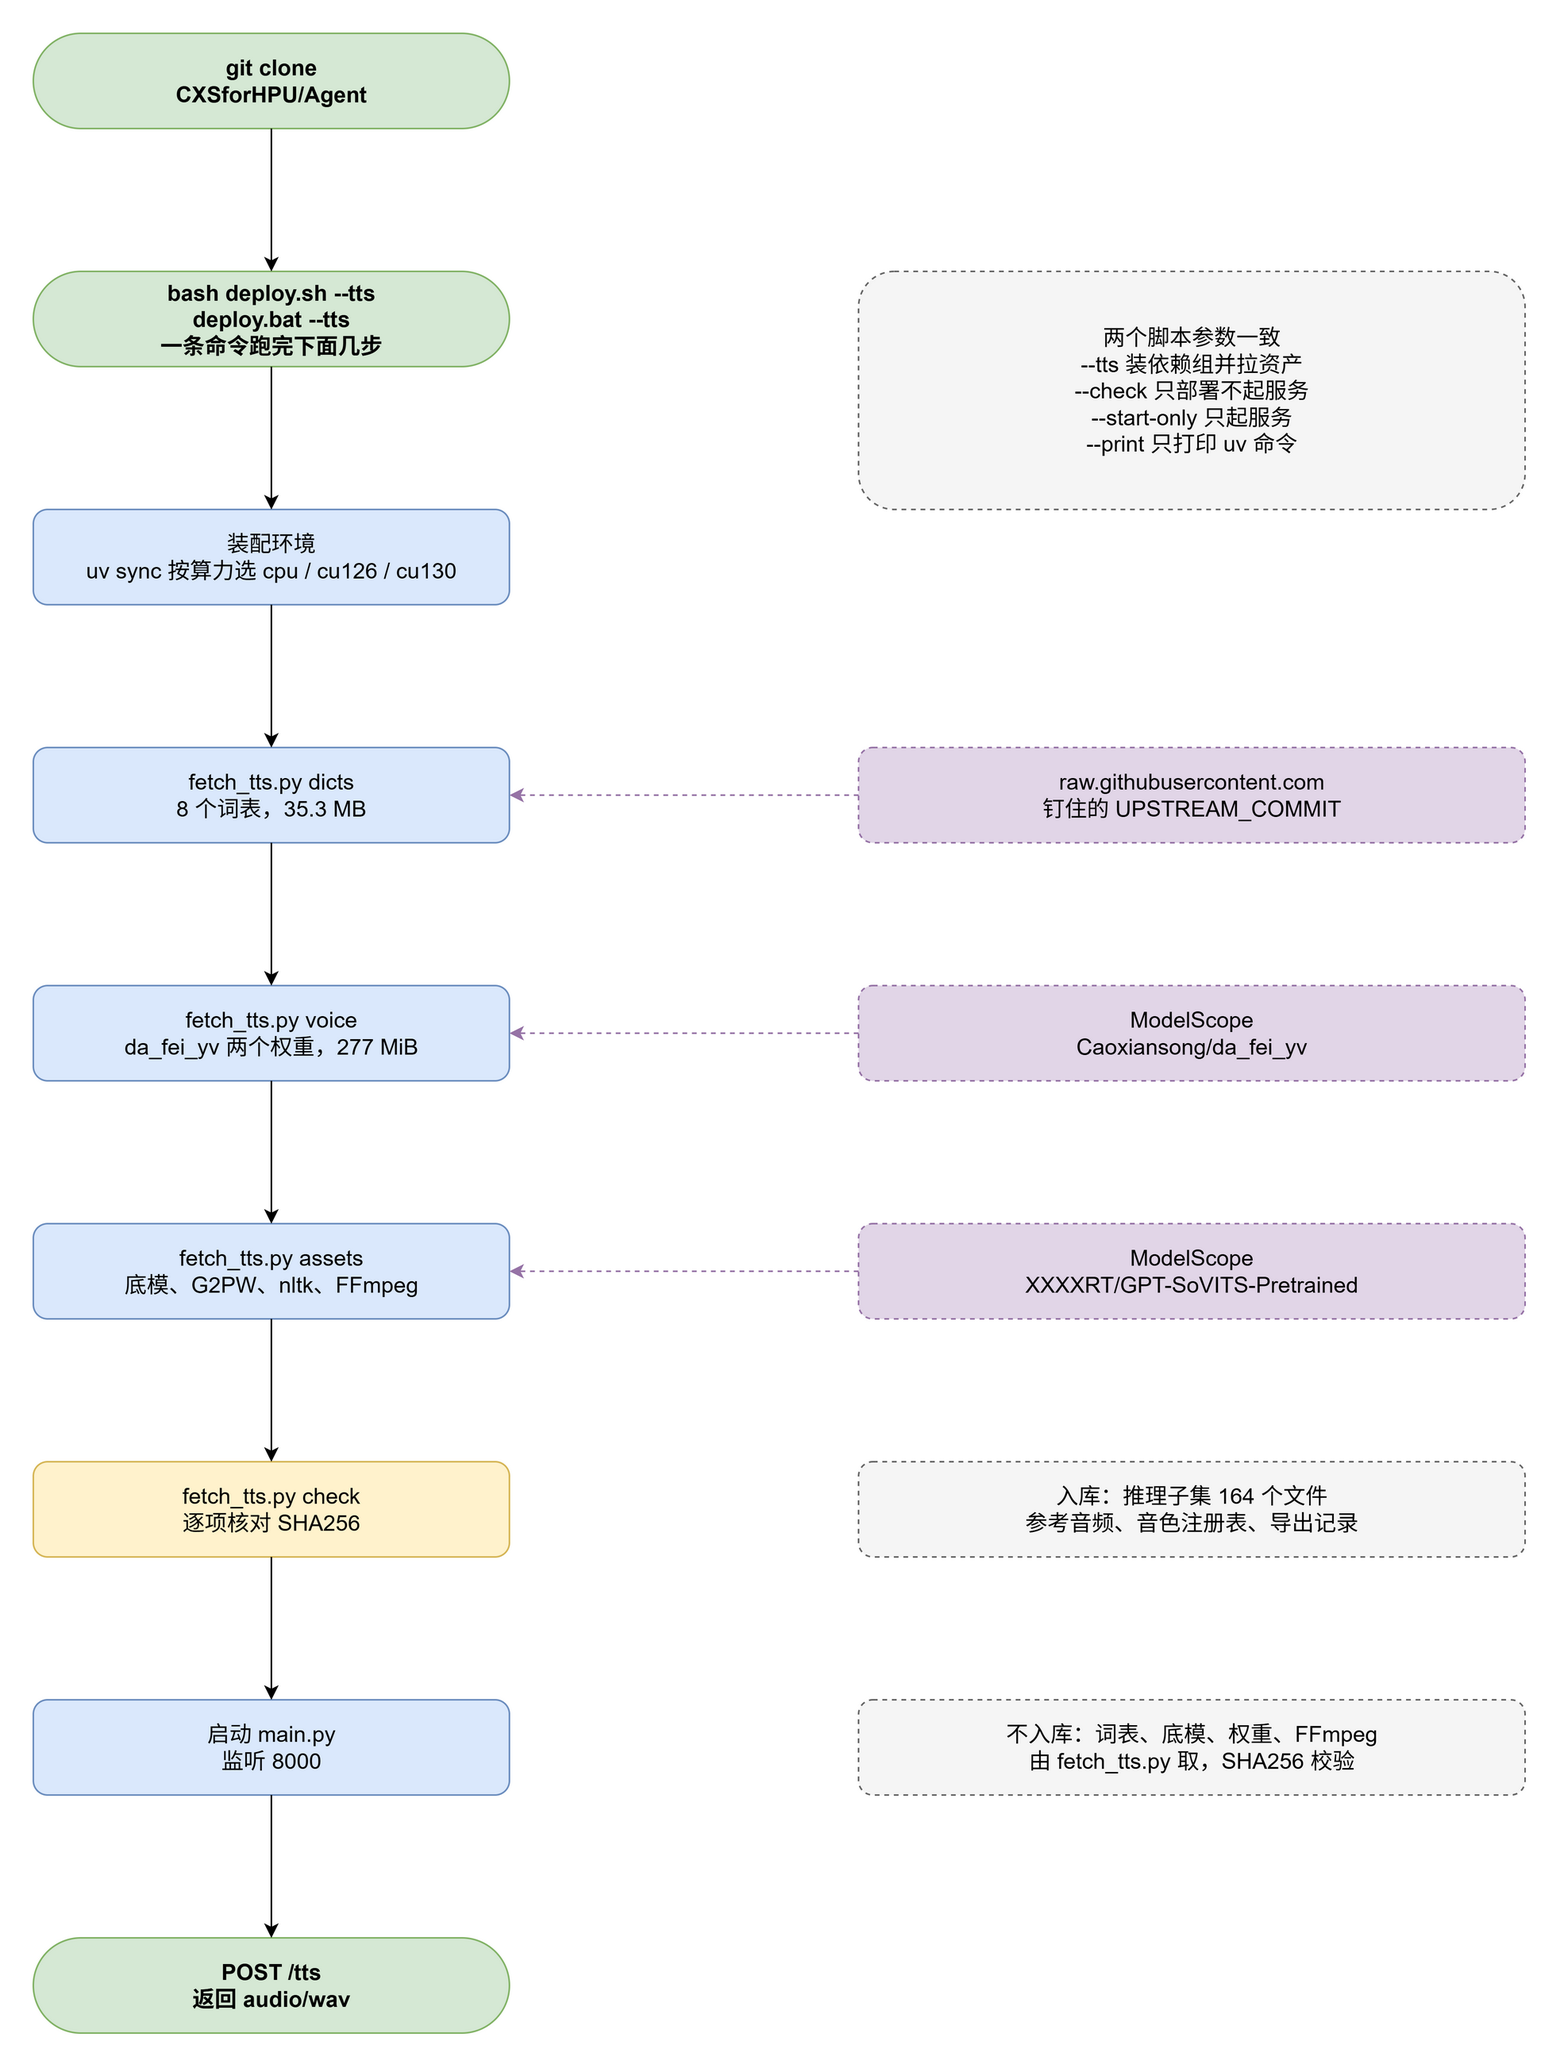
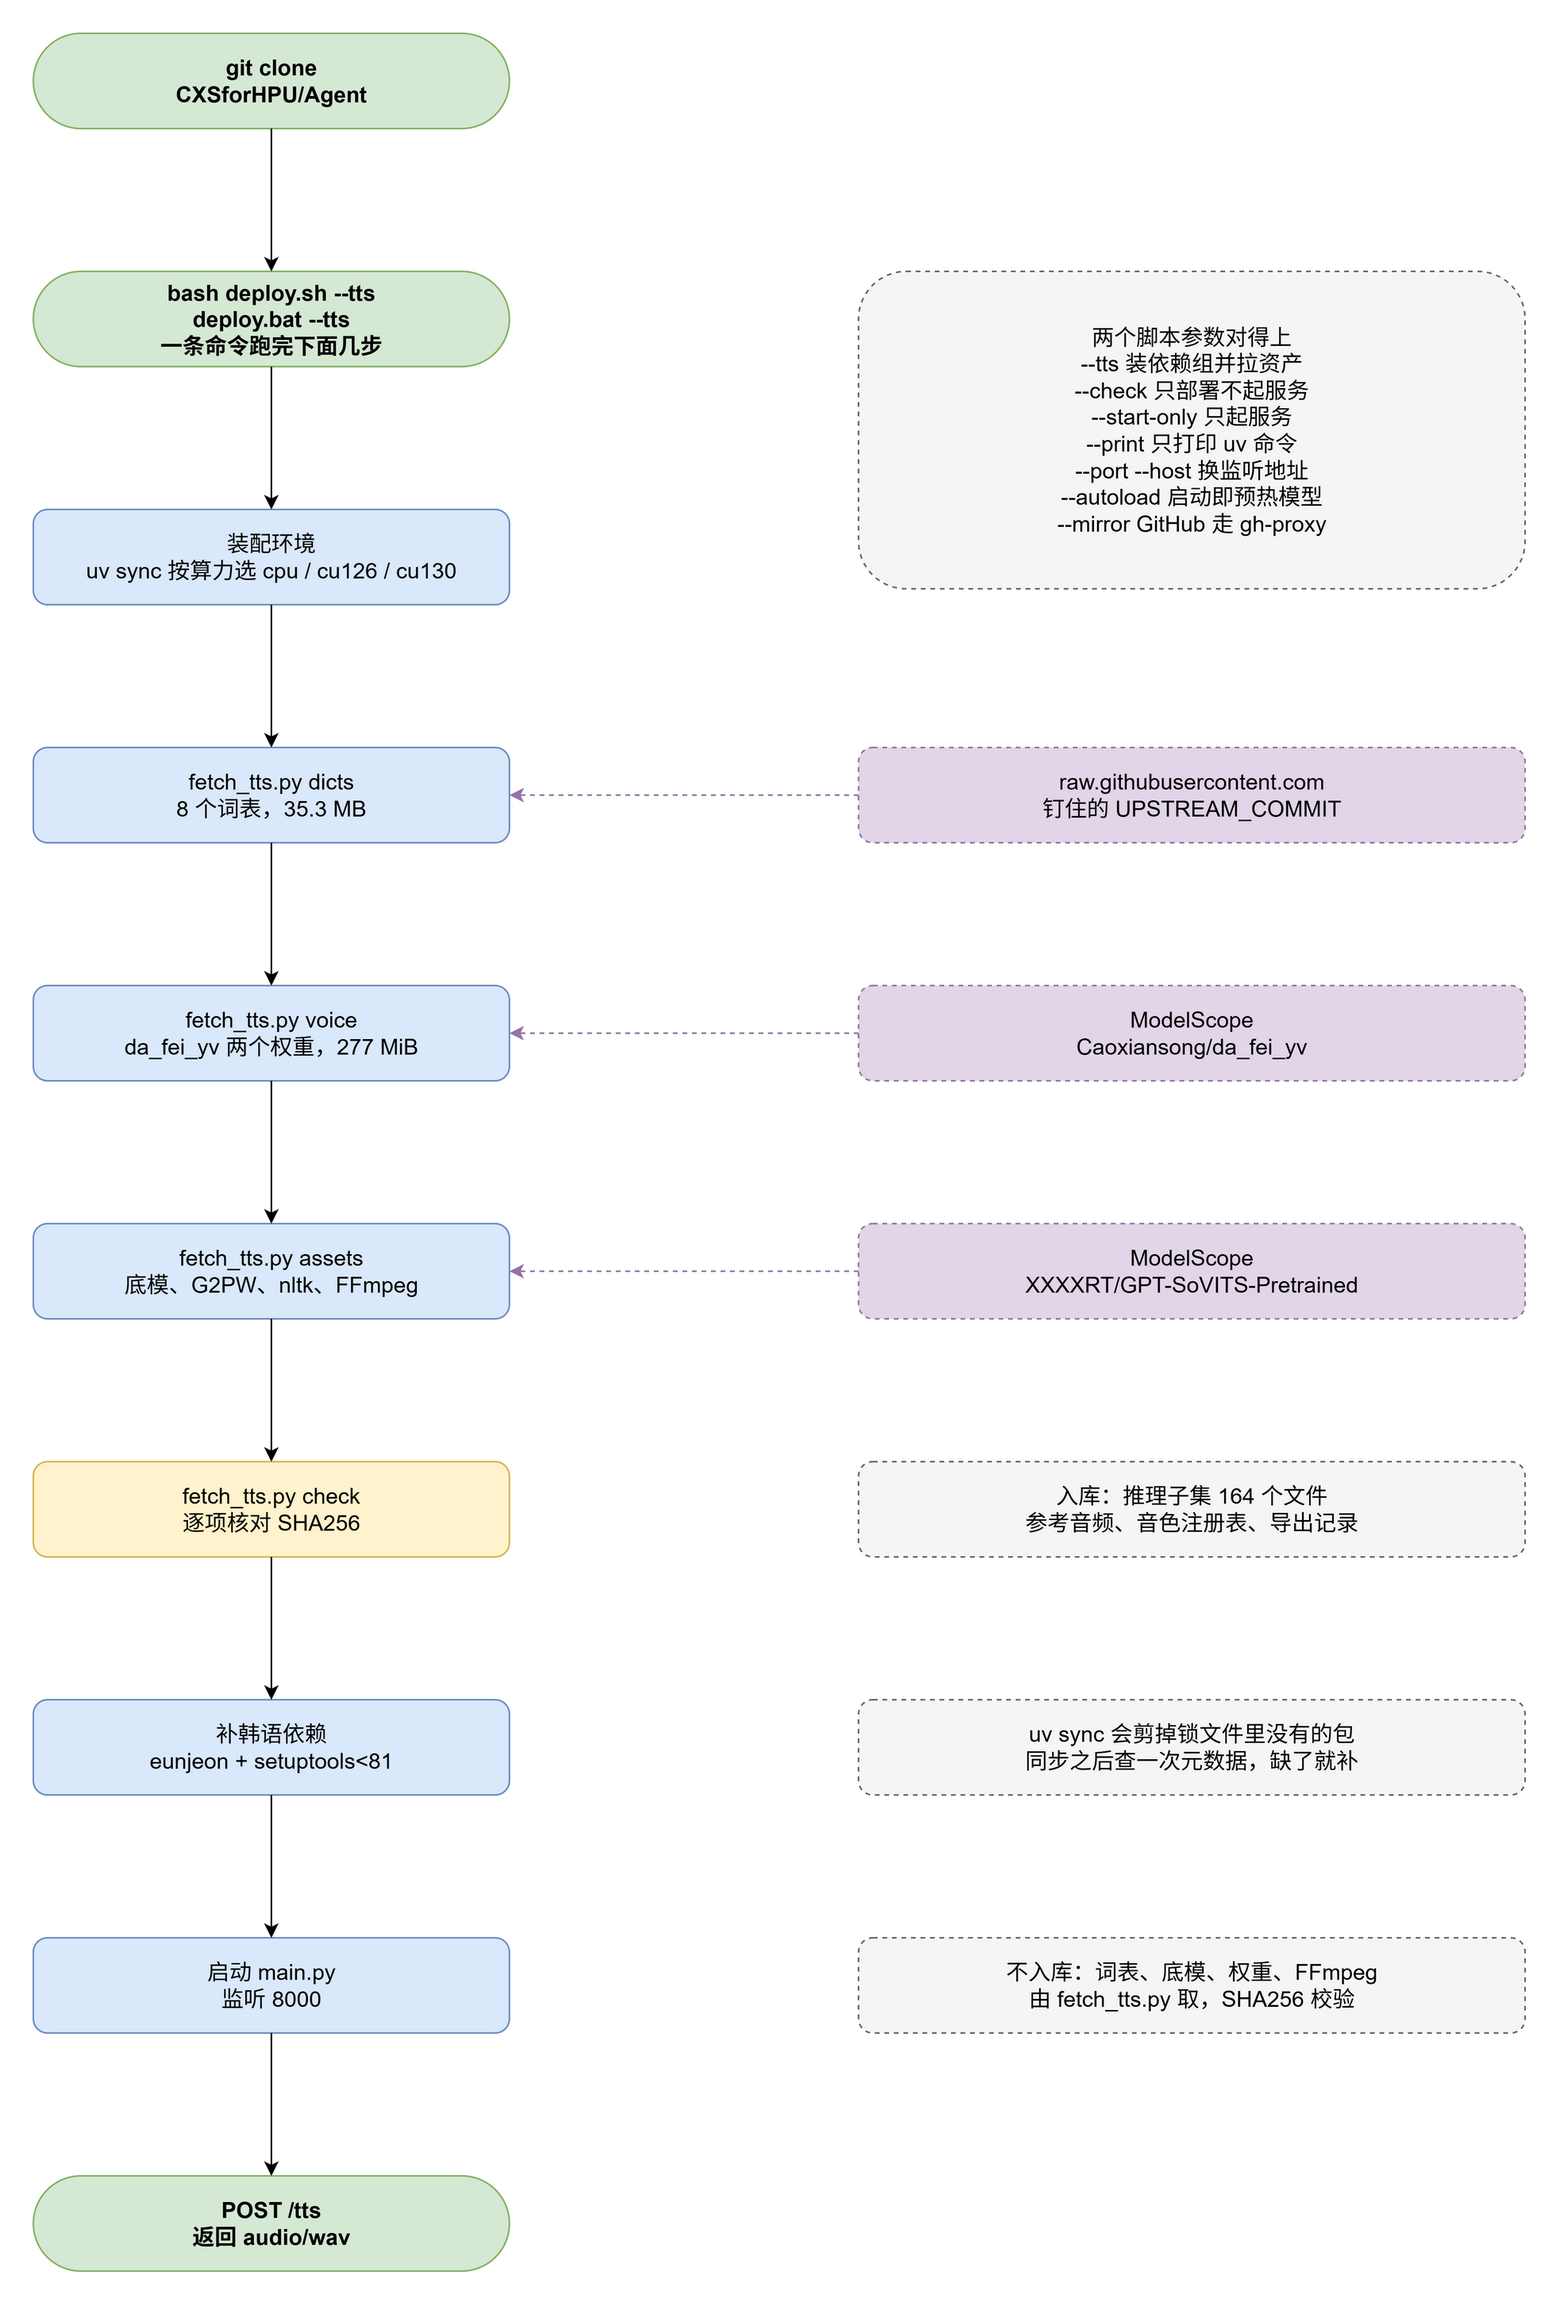
[docs] 补重新部署记录并改通部署流程图
合并后的两个脚本重新跑了一遍：deploy.sh 与 deploy.bat 的 --tts --check 都输出
all third-party pieces present，deploy.bat --tts --port 8001 与
deploy.sh --start-only --port 8002 都能起服务，/tts/speakers 返回 da_fei_yv。
合成一句 16 kHz 双声道，首帧 81.1 s / 258 604 B，热请求 1.91 s / 240 684 B，
两次字节数不同是因为 /tts 没传 seed。

排查表里 /tts 返回 503 的处理改成先跑部署脚本。framework.md 的启动一节原来
写的是 uv run main.py，uv run 会按 uv.lock 同步环境，默认依赖组是 cpu，
会把装好的 GPU 版 torch 换回 CPU 构建，补上 --no-sync 与原因。

流程图补上"补韩语依赖"这一步：uv sync 剪掉锁文件里没有的包，脚本拉完资产后
查一次元数据，缺了就把 eunjeon 与 setuptools<81 补回去。

diff --git a/README.md b/README.md
@@ -171,7 +171,7 @@ draw.io 源文件：[architecture-overview.drawio](./diagrams/architecture-overv
 | CLI 看不到兜底提示 | 兜底文本只投递输出邮箱时，CLI 不显示 | 兜底文本由 `agent_notify()` 同时走流式打印；仍看不到就检查通道是否实现了 `on_context` |
 | 未启动 MQTT 时查询报 `mqtt state busy` | 状态锁只在客户端启动时创建，未启动就取不到 | 锁为幂等懒创建，未启动也能读订阅表和历史 |
 | STT 转写失败 | 地址错误、服务未启动、模型未下载 | 检查 `PKG_AGENT_STT_URL`，确认文件服务器 `/stt` 可用 |
-| TTS 合成返回 503 | 服务端没装配推理链，音色权重也没拉下来 | 在文件服务器目录跑 `python fetch_tts.py dicts voice assets`，再用 `python fetch_tts.py check` 核对 |
+| TTS 合成返回 503 | 服务端没装配推理链，音色权重也没拉下来 | 在文件服务器目录跑 `bash deploy.sh --tts`（Windows 用 `deploy.bat --tts`），再用 `python fetch_tts.py check` 核对 |
 
 ## 依赖
 

diff --git a/resource/file_server/framework.md b/resource/file_server/framework.md
@@ -6,9 +6,12 @@ FastAPI 实现的嵌入式文件服务器：接收 RT-Thread webclient 的 multi
 
 ```bash
 cd resource/file_server
-uv run main.py
-# 或：python main.py
+bash deploy.sh --tts      # 装配环境、拉推理资产，再起服务
 ```
+
+Windows 用 `deploy.bat --tts`。环境已经装好、只想起服务，用 `bash deploy.sh --start-only` 或 `deploy.bat --start-only`；全部参数见 [README.md 的第 11 节](./README.md)。
+
+不要 TTS 的话直接 `uv run --no-sync main.py`。`--no-sync` 不能省：`uv run` 会按 `uv.lock` 同步环境，而默认依赖组是 `cpu`，会把装好的 GPU 版 torch 换回 CPU 构建。
 
 ## 接口
 
